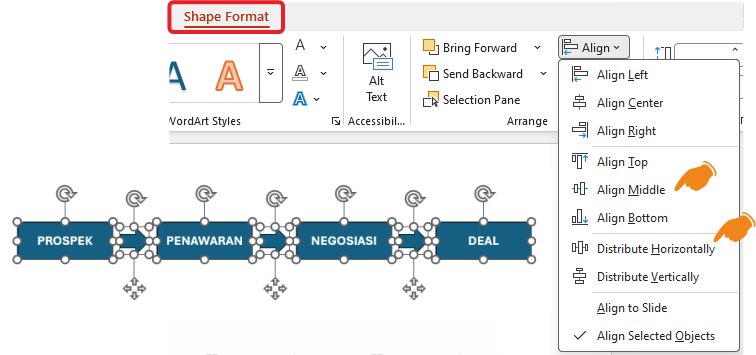
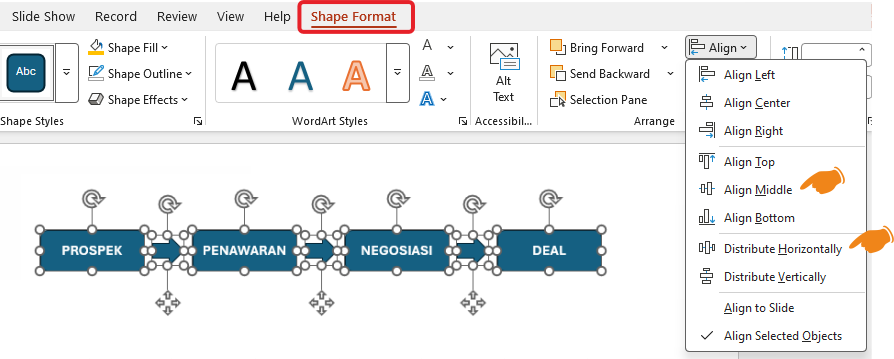
M

diff --git a/materi-powerpoint.html b/materi-powerpoint.html
@@ -720,18 +720,21 @@
                                 <div class="my-3">
                                   <img src="assets/img/Align-slide2-sesi1menengah.png" alt="" class="img-fluid shadow rounded">
                                 </div>
+                                <div class="my-3">
+                                  <img src="assets/img/hasil-Align-slide2-sesi1menengah.png" alt="" class="img-fluid shadow rounded">
+                                </div>
                               </li>
                               <li>
                                 Ubah warna shapes: <strong>Shape Fill</strong> → <strong>Gradient</strong>
                                 pilih warna biru gradasi.
                                 <div class="my-3">
-                                  <img src="assets/img/Shape-Fill.png" alt="" class="img-fluid">
+                                  <img src="assets/img/Shape-Fill.png" alt="" class="img-fluid shadow rounded">
                                 </div>
                               </li>
                             </ol>
                           </div>
                           <div class="col-md-6">
-                            <img src="assets/img/Struktur-Organisasi/Slide2.PNG" alt="" class="img-fluid">
+                            <img src="assets/img/Struktur-Organisasi/Slide2.PNG" alt="" class="img-fluid shadow rounded">
                           </div>
                         </div>
 
@@ -763,7 +766,7 @@
                             </ol>
                           </div>
                           <div class="col-md-6">
-                            <img src="assets/img/Struktur-Organisasi/Slide3.PNG" alt="" class="img-fluid">
+                            <img src="assets/img/Struktur-Organisasi/Slide3.PNG" alt="" class="img-fluid shadow rounded">
                           </div>
                         </div>
 
